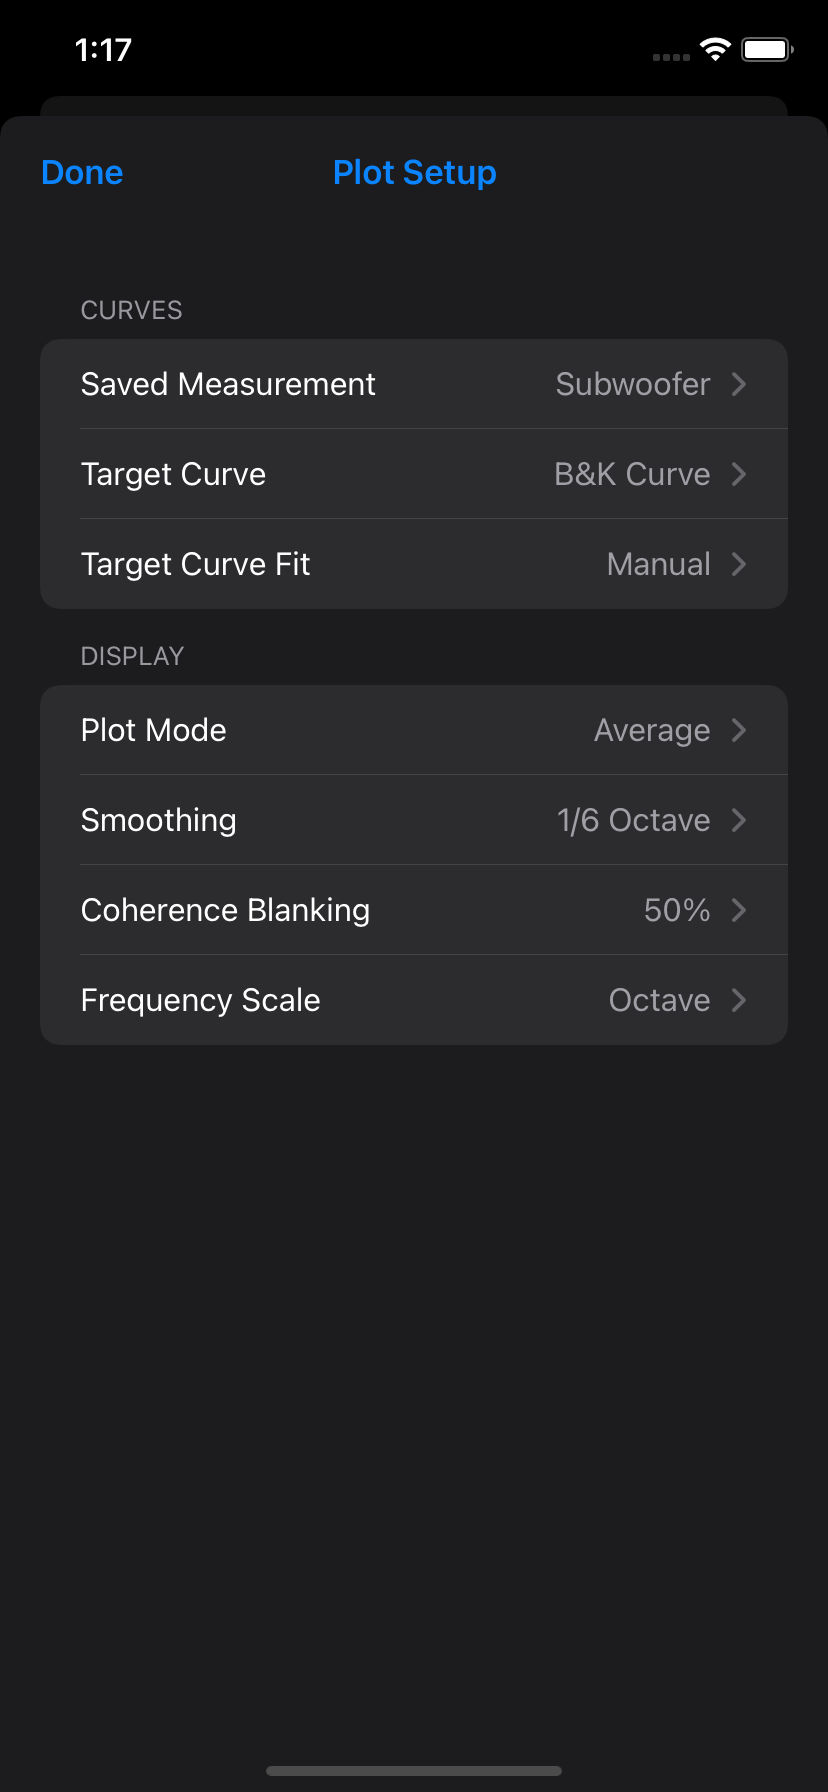
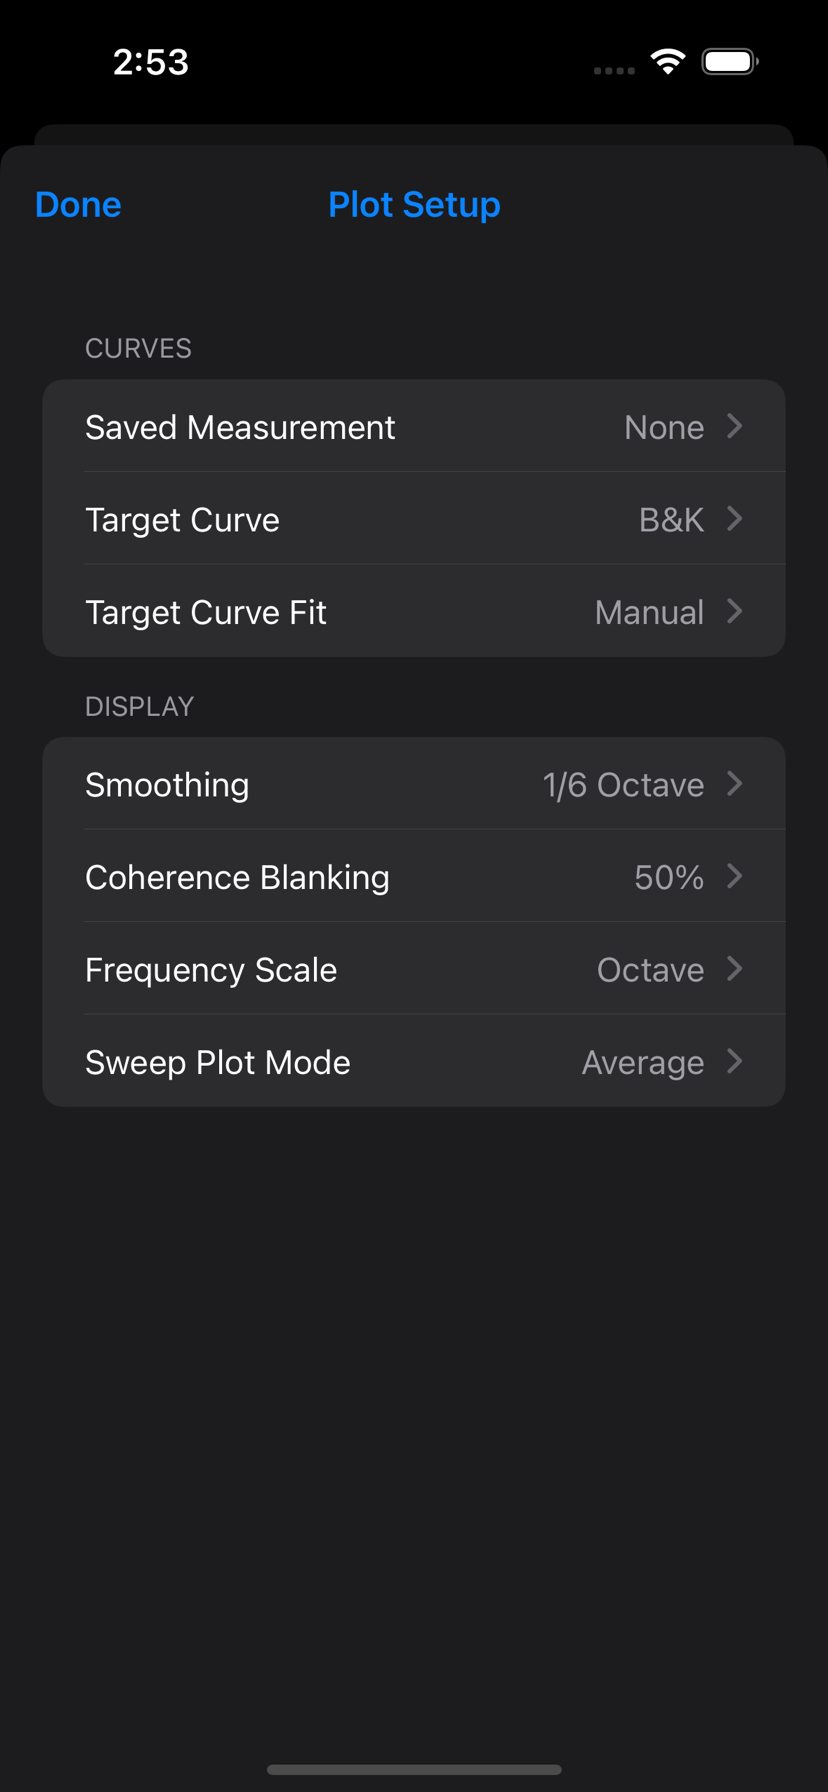
Updating plot and measure setup

diff --git a/docs/manual/plot_setup.md b/docs/manual/plot_setup.md
@@ -7,7 +7,7 @@ nav_order: 8
 ---
 
 # Plot Setup
-The Plot Setup screen can be accessed by tapping <img src="/assets/img/plot.png" alt="Plot Setup" class="app-icon"> on the Measure or Equalize screens.
+The Plot Setup screen can be accessed by tapping <img src="/assets/img/plot.png" alt="Plot Setup" class="app-icon"> from the Sweep, Real Time, Equalize and Curve Edit tools.
 
 ![Plot setup screen](/assets/img/plot_setup.png)
 {: .app-portrait-right }
@@ -31,17 +31,6 @@ By default, the selected target curve is automatically fitted to measurements ba
 
 When automatic fitting is disabled, the curve can be manually positioned by setting a desired dB level.  This is useful when you don't want the curve to move, for example, when applying room correction to left and right speakers separately.
 
-## Plot Mode
-HouseCurve can display measurements to suit a given task (with Tuning Bundle in-app purchase).
-
-### Average
-Average mode is used to capture how an audio system sounds in a listening area. Use this mode when tuning the audio system to match a target curve.  Measurements are included in an average as they are collected.  The average measurement is displayed in bold green. Individual measurements will appear in faded green.
-
-HouseCurve applies averaging suitable for equalization and time alignment.  Decibel averaging is used for magnitudes.  Vector averaging is used for phase.  Arithmetic averaging is used for group delay.
-
-### History
-History mode is used to see the effect of an adjustment from a single microphone location. Use this mode for initial audio system setup, such as speaker position or time alignment.  The most recent measurement is displayed in bold green.  Older measurements appear in green and are faded according to age.
-
 ## Smoothing
 Smoothing can be applied to measurements to make it easier to see trends.  To remove smoothing, select None.
 
@@ -54,6 +43,19 @@ This setting also controls the threshold at which HouseCurve will [automatically
 
 ## Frequency Scale
 The frequency axis can have an Octave or Decade scale.  This setting applies to all plots.
+
+## Plot Modes
+HouseCurve can display measurements to suit a given task (with [Tuning Bundle](../DOWNLOADS.md) purchase).  Sweep and Real Time tool have independent plot modes.
+
+### Sweep
+* **Average** - Averages sweep measurements as they are captured.  This mode is well suited for tuning an audio system to match a target curve.  The average measurement is displayed in bold green. Individual measurements will appear in faded green.  HouseCurve applies averaging suitable for equalization and time alignment.  Decibel averaging is used for magnitudes.  Vector averaging is used for phase.  Arithmetic averaging is used for group delay.
+
+* **History** - Displays the latest sweep measurement on top of previous ones.  This mode is used to see the effect of an adjustment from a single microphone location.  Use this mode for initial audio system setup, such as speaker position or time alignment.  The most recent measurement is displayed in bold green.  Older measurements appear in green and are faded according to age.
+
+### Real Time
+* **Live** - Displays a short term average of the pink noise measurement (about 5 seconds).  Use this mode to see the measurement change as an adjustment is being made.
+
+* **Average** - Long term continuous average of the pink noise measurement.  Use this mode to quickly capture an average measurement of a listening area by moving the microphone (aka: “moving mic measurements”, or MMM).
 
 
 

diff --git a/docs/manual/measure_setup.md b/docs/manual/measure_setup.md
@@ -7,13 +7,19 @@ nav_order: 9
 ---
 
 # Measure Setup
-The Measure Setup screen can be accessed by tapping <img src="/assets/img/setup.png" alt="Setup" class="app-icon"> on the Measure screen.
+The Measure Setup screen can be accessed by tapping <img src="/assets/img/setup.png" alt="Setup" class="app-icon"> on the Sweep and Real Time tools.
 
 ![Measure setup screen](/assets/img/measure_setup.png)
 {: .app-portrait-right }
 
-## Chirp and Sweep Channel
+## Channels
+Control which channels are used to play stimulus.  The Sweep and Real Time tools have independent channel settings.
+
+### Sweep
 The "chirp" and "sweep" sounds of the test signal can be played on different channels (see [measurement process](../usage/measurement_process.md)).  This is mainly used for [subwoofer measurements](../usage/subwoofer.md).
+
+### Real Time
+Then channel used to play pink noise, defaults to "all".
 
 ## External Stimulus
 When enabled, HouseCurve will not attempt to play the test signal, it will only listen when measure is tapped.  Use this when connection to the audio system isn't possible, or wireless methods are not working correctly.
